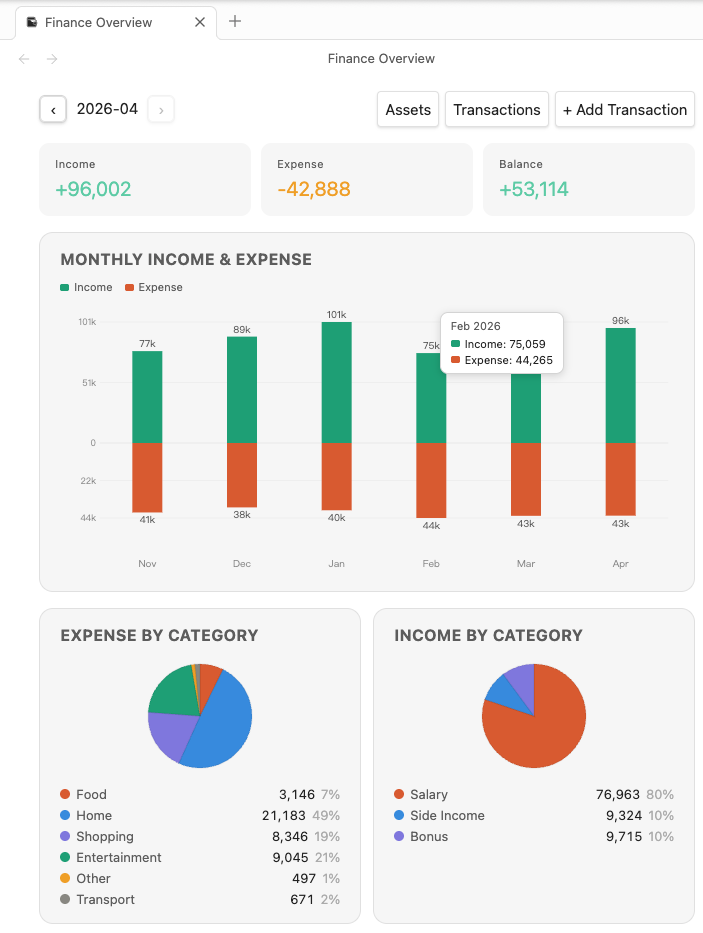
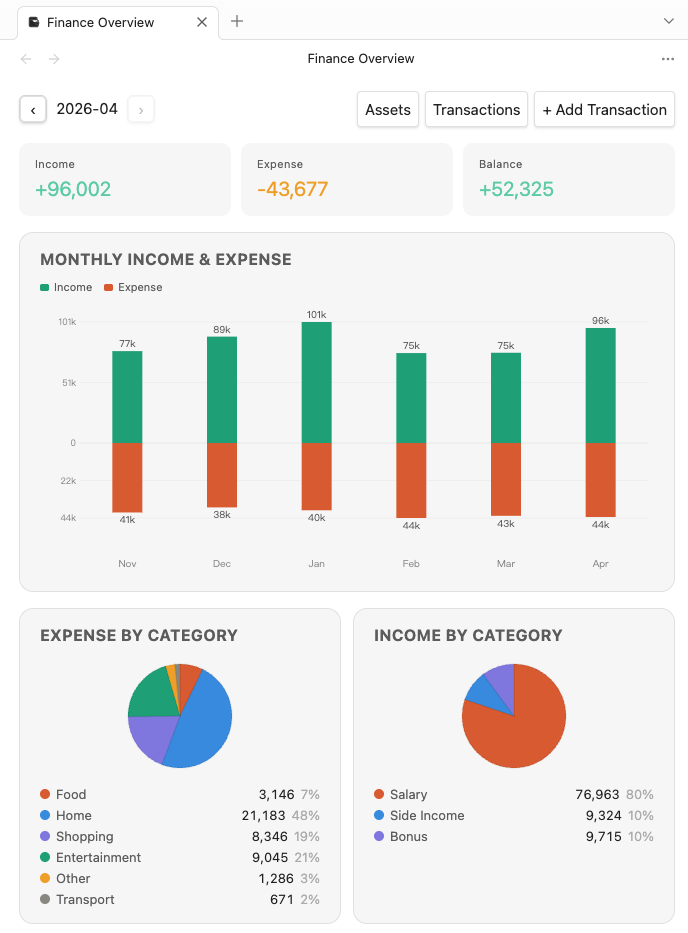
fix: fix mobile numpad tap feedback on iOS
Replace `:active` pseudo-class with a JS-driven `is-pressed` class
to get reliable press feedback on WKWebView. Add `bindNumpadButton`
to handle touch/pointer events, prevent double-firing on touch+click,
and blur buttons after tap to suppress focus styles. Update numpad
button background to `--interactive-normal` and add a 90ms CSS
transition for smooth press animation.

diff --git a/src/modal/MobileTransactionModal.ts b/src/modal/MobileTransactionModal.ts
@@ -221,7 +221,7 @@ export class MobileTransactionModal extends TransactionModal {
     for (const key of topKeys) {
       const btn = el.createEl('button', { cls: 'pw-mobile-numpad-btn', text: key })
       if (key === '⌫' || key === 'C') btn.addClass('pw-mobile-numpad-control')
-      btn.addEventListener('click', () => this.handleNumpadKey(key))
+      this.bindNumpadButton(btn, key)
     }
 
     // ✓ spans rows 3–4 at col 4 (handled via CSS class)
@@ -229,12 +229,57 @@ export class MobileTransactionModal extends TransactionModal {
       cls: 'pw-mobile-numpad-btn pw-mobile-numpad-confirm',
       text: '✓',
     })
-    confirmBtn.addEventListener('click', () => this.handleNumpadKey('✓'))
+    this.bindNumpadButton(confirmBtn, '✓')
 
     for (const key of bottomKeys) {
       const btn = el.createEl('button', { cls: 'pw-mobile-numpad-btn', text: key })
-      btn.addEventListener('click', () => this.handleNumpadKey(key))
+      this.bindNumpadButton(btn, key)
     }
+  }
+
+  private bindNumpadButton(btn: HTMLButtonElement, key: string) {
+    let touched = false
+    let clearPressedTimer: number | null = null
+    const clearFocus = () => requestAnimationFrame(() => btn.blur())
+    const setPressed = () => {
+      if (clearPressedTimer !== null) {
+        window.clearTimeout(clearPressedTimer)
+        clearPressedTimer = null
+      }
+      btn.classList.add('is-pressed')
+    }
+    const clearPressed = () => {
+      btn.classList.remove('is-pressed')
+      clearFocus()
+    }
+    const scheduleClearPressed = () => {
+      if (clearPressedTimer !== null) window.clearTimeout(clearPressedTimer)
+      clearPressedTimer = window.setTimeout(() => {
+        clearPressedTimer = null
+        clearPressed()
+      }, 90)
+    }
+
+    btn.addEventListener('touchstart', setPressed, { passive: true })
+    btn.addEventListener('pointerdown', setPressed)
+    btn.addEventListener('pointerup', scheduleClearPressed)
+    btn.addEventListener('pointercancel', clearPressed)
+    btn.addEventListener('pointerleave', clearPressed)
+    btn.addEventListener('touchcancel', clearPressed)
+    btn.addEventListener('touchend', (e) => {
+      e.preventDefault()
+      touched = true
+      this.handleNumpadKey(key)
+      scheduleClearPressed()
+    })
+    btn.addEventListener('click', () => {
+      if (touched) {
+        touched = false
+        return
+      }
+      this.handleNumpadKey(key)
+      scheduleClearPressed()
+    })
   }
 
   private handleNumpadKey(key: string) {

diff --git a/styles.css b/styles.css
@@ -270,7 +270,8 @@
 }
 
 .pw-mobile-numpad-btn {
-  background: var(--background-primary);
+  background: var(--interactive-normal);
+  border-radius: 0;
   border: none;
   font-size: 22px;
   height: 60px;
@@ -284,14 +285,15 @@
   user-select: none;
   -webkit-user-select: none;
   cursor: pointer;
+  transition: background-color 90ms ease, opacity 90ms ease;
 }
 
 /* Override Obsidian's global button styles */
 .pw-transaction-modal-container .pw-mobile-numpad-btn:hover {
-  background: var(--background-primary) !important;
+  background: var(--interactive-normal) !important;
 }
 
-.pw-transaction-modal-container .pw-mobile-numpad-btn:active {
+.pw-transaction-modal-container .pw-mobile-numpad-btn.is-pressed {
   background: var(--background-modifier-hover) !important;
 }
 
@@ -299,6 +301,7 @@
 .pw-transaction-modal-container .pw-mobile-numpad-btn:focus-visible {
   outline: none !important;
   box-shadow: none !important;
+  background: var(--interactive-normal) !important;
 }
 
 .pw-mobile-numpad-control {
@@ -307,8 +310,13 @@
   background: var(--background-secondary);
 }
 
-.pw-mobile-numpad-control:active {
-  background: var(--background-modifier-hover);
+.pw-transaction-modal-container .pw-mobile-numpad-control:focus,
+.pw-transaction-modal-container .pw-mobile-numpad-control:focus-visible {
+  background: var(--background-secondary) !important;
+}
+
+.pw-transaction-modal-container .pw-mobile-numpad-control.is-pressed {
+  background: var(--background-modifier-hover) !important;
 }
 
 .pw-mobile-numpad-confirm {
@@ -319,7 +327,13 @@
   font-weight: 600;
 }
 
-.pw-mobile-numpad-confirm:active {
+.pw-transaction-modal-container .pw-mobile-numpad-confirm:focus,
+.pw-transaction-modal-container .pw-mobile-numpad-confirm:focus-visible {
+  background: var(--interactive-accent) !important;
+  color: var(--text-on-accent) !important;
+}
+
+.pw-transaction-modal-container .pw-mobile-numpad-confirm.is-pressed {
   opacity: 0.85;
 }
 